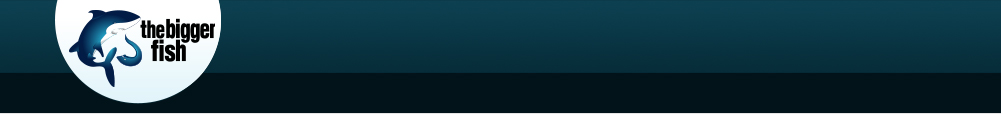
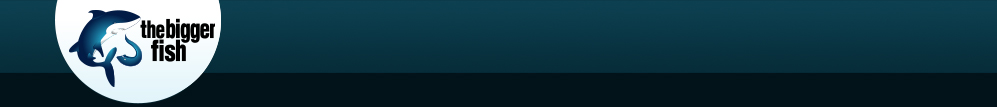
Updated Empty

Changed region(s): [[0.0, 0.0841, 1.0, 1.0]]

diff --git a/Empty_file.html b/Empty_file.html
@@ -27,7 +27,7 @@
       /* Custom container */
       .container {
         margin: 0 auto;
-        max-width: 1000px;
+        max-width: 997px;
         background:url('images/header_infinite.jpg') repeat-x;
         background-color:#021319;
       }
@@ -37,9 +37,11 @@
 <body>
   <div id="overlay"/>
 	<div class="container">
-		<img src="images/header.jpg" alt="">
+    <div class="masthead">
+		  <img src="images/header.jpg" alt="">
+    </div>
 	</div>
-  
+
 	<script src="js/bootstrap.js"></script>
 </body>
 </html>
